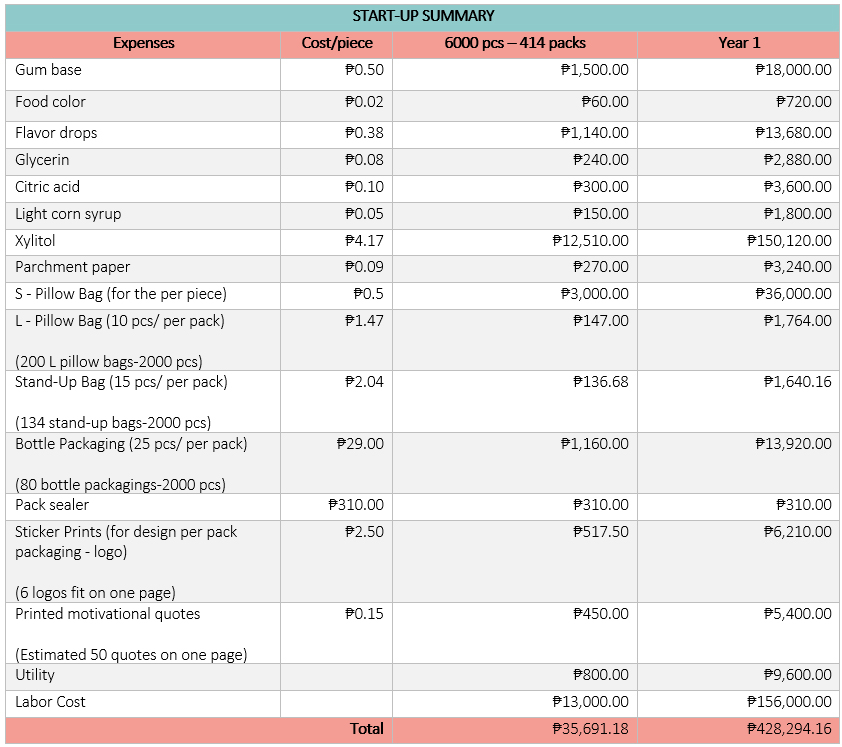
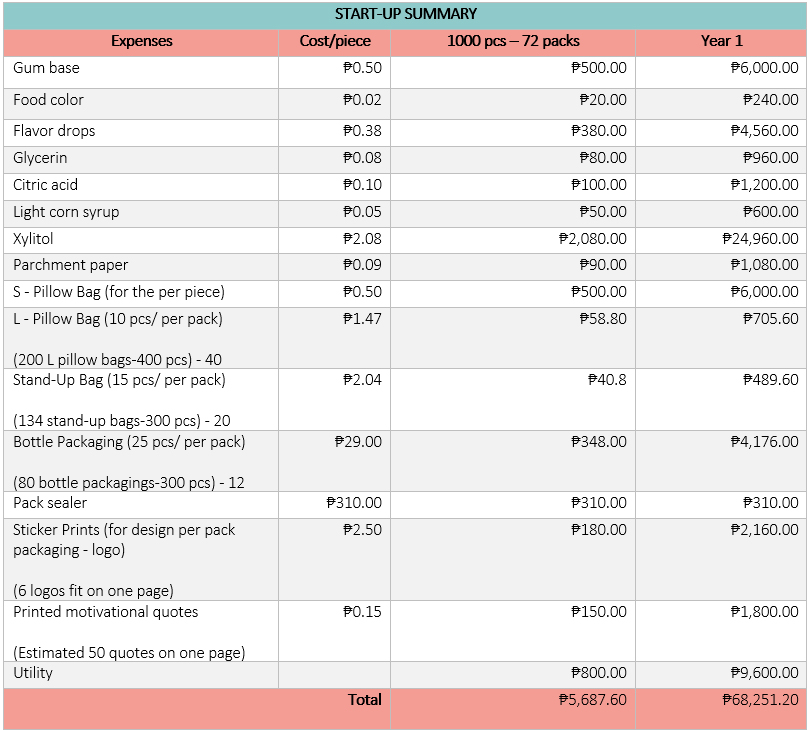
first commit

diff --git a/Fp.html b/Fp.html
@@ -79,13 +79,12 @@
                                                         <tr>
                                                             <td>
                                                                 <center>
-                                                                    <table width="600" height="80">
+                                                                    <table width="600" height="70">
                                                                         <tr>
                                                                             <td>
                                                                                 <font size="4" color="#4f5d75">
                                                                                     <center>
-                                                                                        The initial capitalization for the business, good for a monthly expense, is ₱35,691.18, Expected revenue for Year 1 is ₱76,545.84, and the total cost of goods sold amounted to ₱504,840.
-                                                                                    </center>
+                                                                                        The initial capitalization for the business, good for a month’s expense, is ₱5,687.60. The expected revenue for Year 1 is ₱93,120.00, and the total cost of goods sold amounted to ₱68,251.20. The expected profit for year 1 is ₱24,868.8.                                                                                    </center>
                                                                                 </font>
                                                                             </td>
                                                                         </tr>

diff --git a/Es.html b/Es.html
@@ -128,13 +128,13 @@
                                                         <td height="25">&nbsp;competitive features that will be used to their advantage to achieve market penetration such as the health benefits it</td>
                                                     </tr>
                                                     <tr>
-                                                        <td height="25">&nbsp;can offer, added unique features, and affordability. The initial capitalization for the business, good for a monthly</td>
+                                                        <td height="25">&nbsp;can offer, added unique features, and affordability. The initial capitalization for the business, good for a month’s </td>
                                                     </tr>
                                                     <tr>
-                                                        <td height="25">&nbsp;expense, is ₱35,691.18, Expected revenue for Year 1 is ₱76,545.84, and the total cost of goods sold amounted to</td>
+                                                        <td height="25">&nbsp;expense, is ₱5,687.60. The expected revenue for Year 1 is ₱93,120.00, and the total cost of goods sold amounted to</td>
                                                     </tr>
                                                     <tr>
-                                                        <td height="25">&nbsp;₱504,840.</td>
+                                                        <td height="25">&nbsp;₱68,251.20. The expected profit for year 1 is ₱24,868.8.</td>
                                                     </tr>
                                                 </table>
                                         </font>
